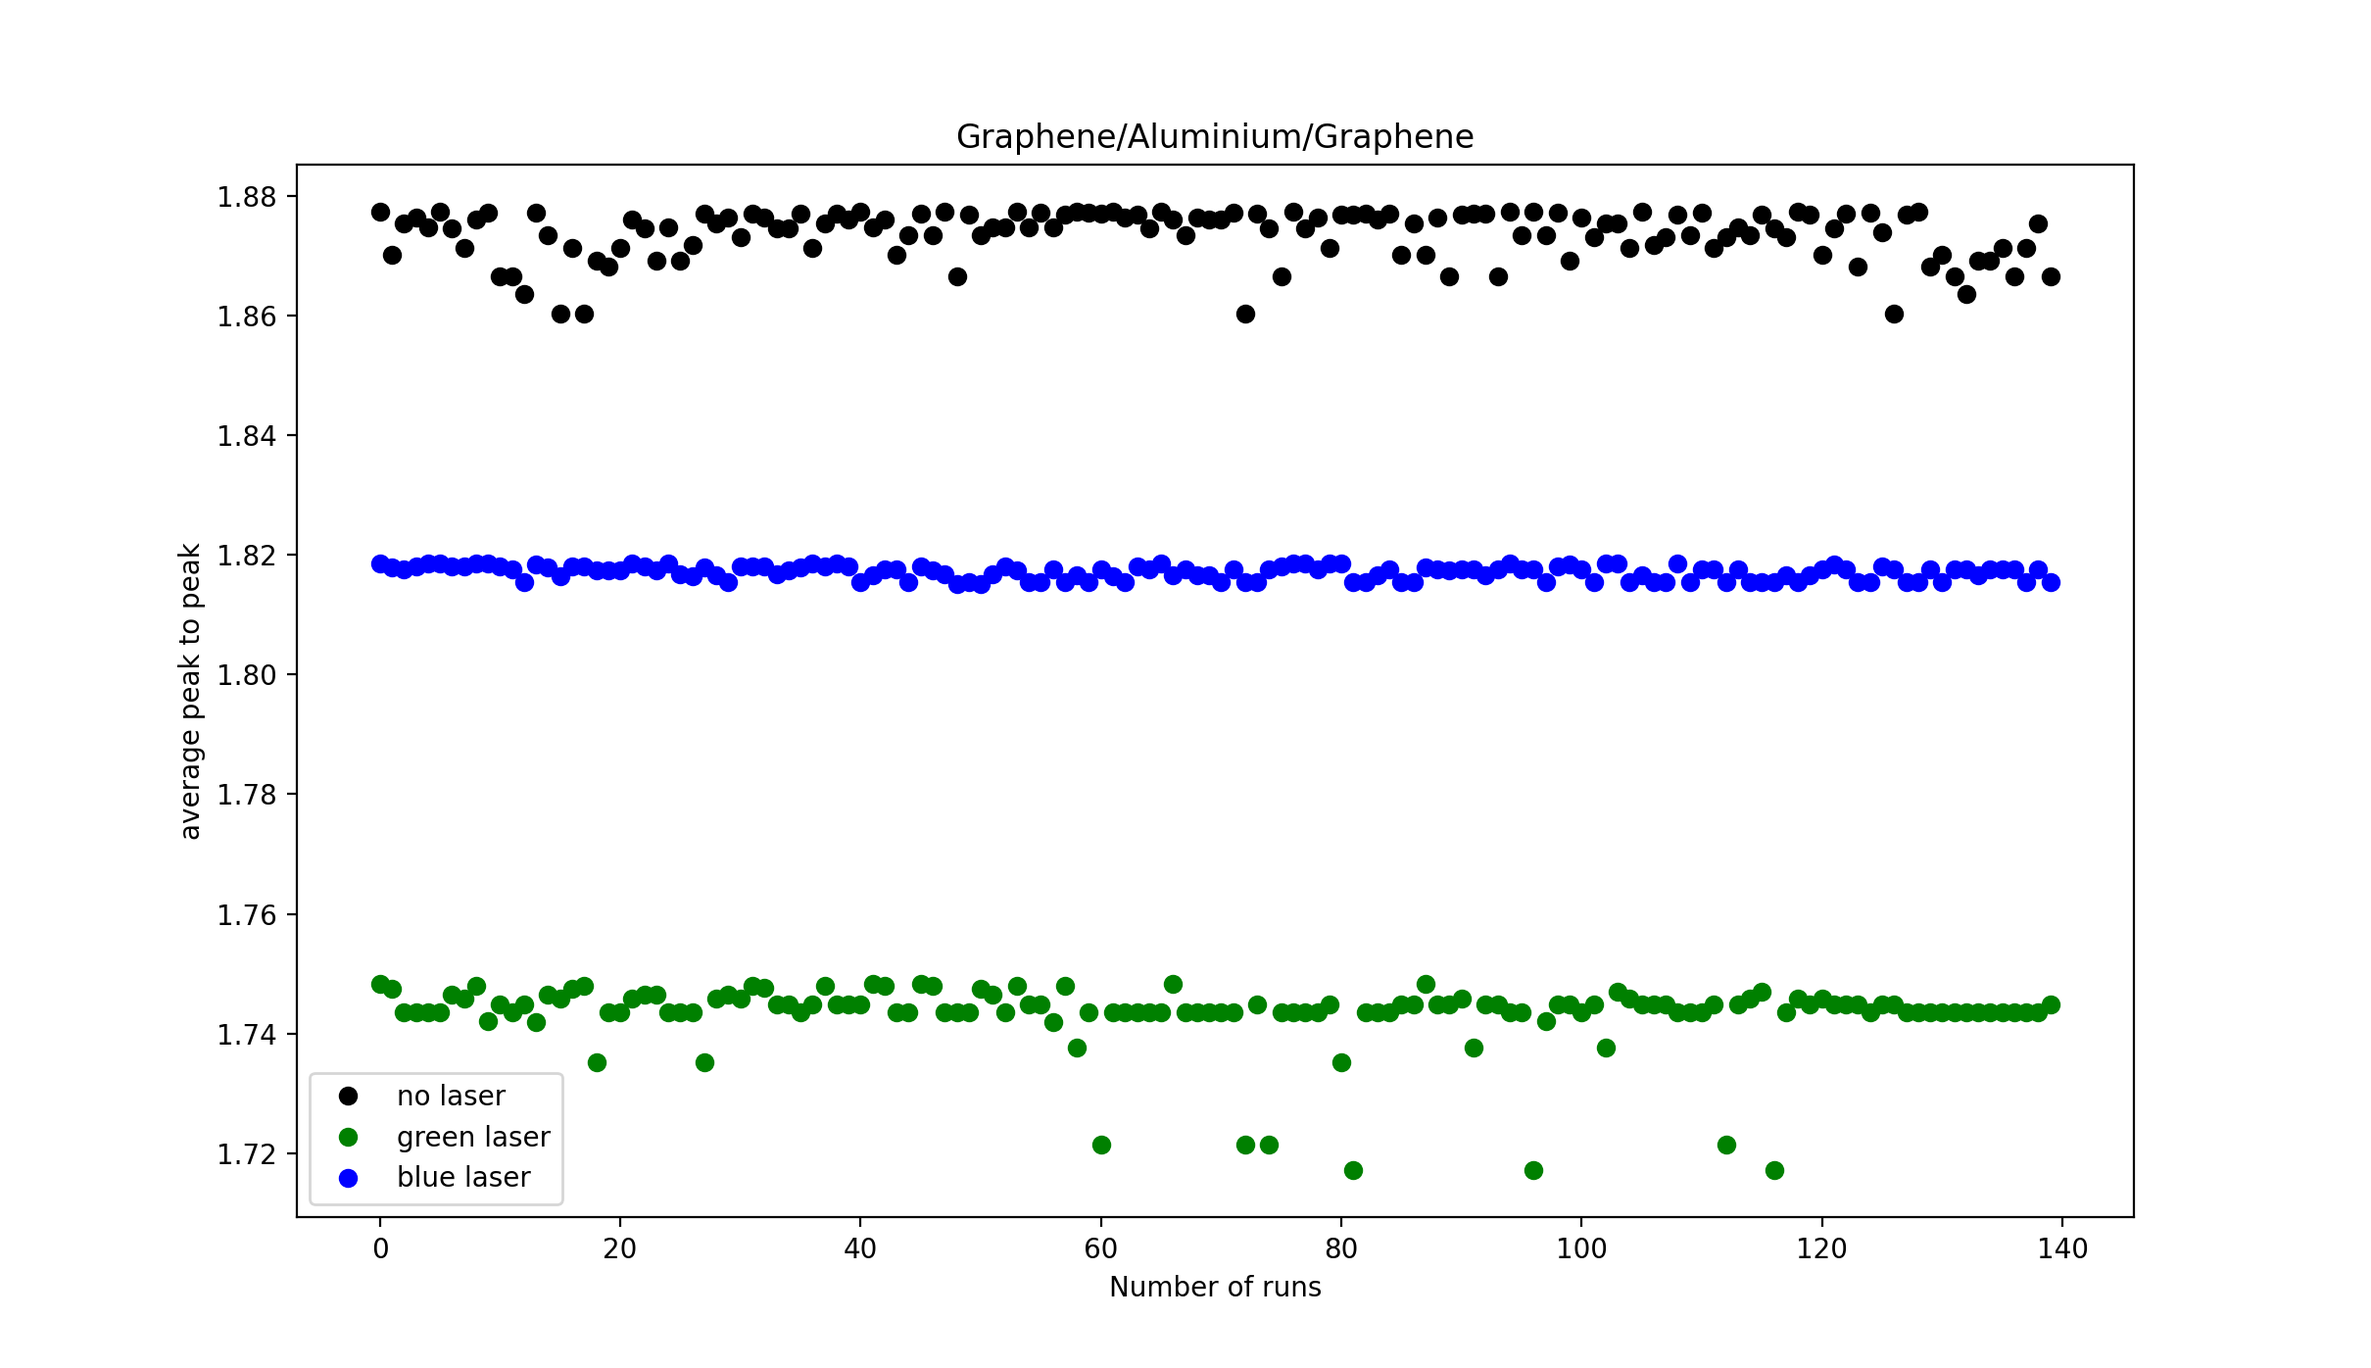
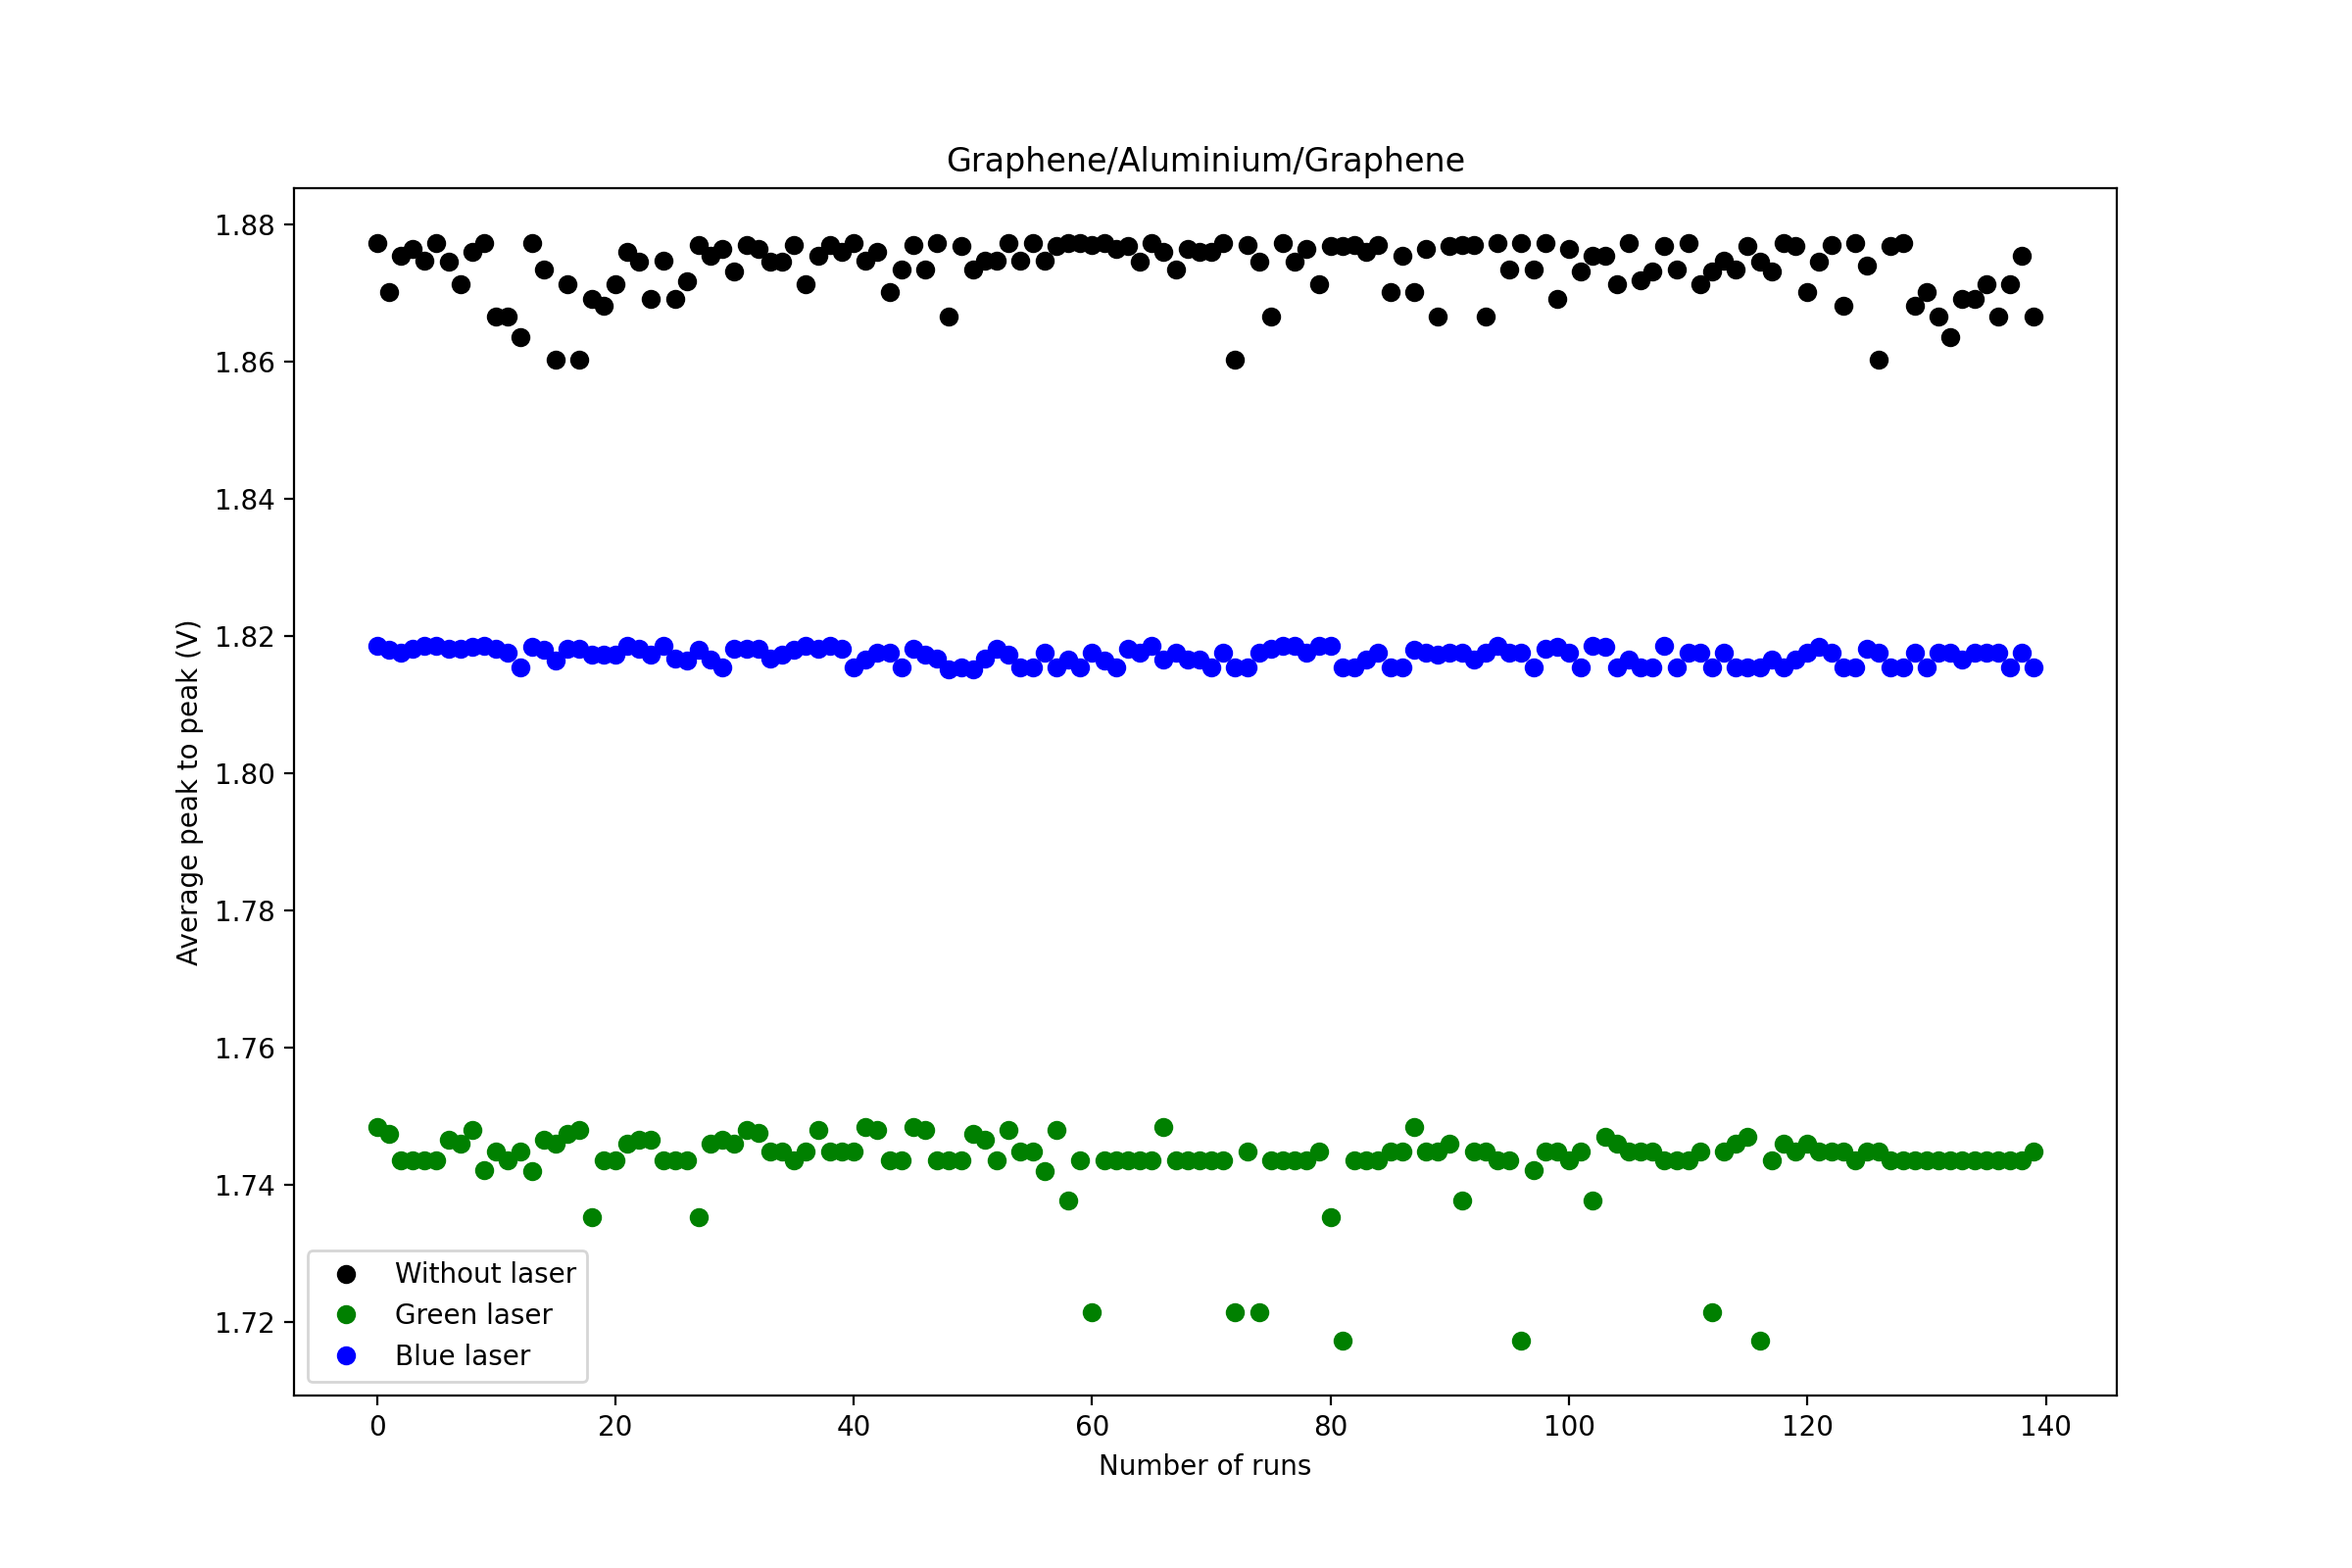
Add files via upload

diff --git a/calc_peak_2_peak.py b/calc_peak_2_peak.py
@@ -1,0 +1,75 @@
+import glob
+import numpy as np
+import matplotlib.pyplot
+from scipy.signal import find_peaks
+import matplotlib.pyplot as plt
+
+no_laser_files = glob.glob('Documents/graphene_hackathon/real_data/train/clean_Al*.csv')
+no_laser_data = np.zeros((300,247))
+
+for i,file in enumerate(no_laser_files):
+	data = np.genfromtxt(file,delimiter=',')
+	no_laser_data[i,::] = data
+
+no_laser_avg_peak_2_peak = np.zeros((300))
+
+for i in range(300):
+	peaks, _ = find_peaks(no_laser_data[i,::], height=0)
+	inv_peaks, _ = find_peaks(-no_laser_data[i,::], height=0)
+	inv_values = -no_laser_data[0,::][inv_peaks]
+	values = no_laser_data[0,::][peaks]
+	peak_2_peak = values + inv_values
+	no_laser_avg_peak_2_peak[i] = np.mean(peak_2_peak)
+
+green_laser_files = glob.glob('Documents/graphene_hackathon/real_data/train/laser_Al*.csv')
+green_laser_data = np.zeros((300,247))
+
+for i,file in enumerate(green_laser_files):
+	data = np.genfromtxt(file,delimiter=',')
+	green_laser_data[i,::] = data
+
+green_laser_avg_peak_2_peak = np.zeros((300))
+
+for i in range(300):
+	peaks, _ = find_peaks(green_laser_data[i,::], height=0)
+	inv_peaks, _ = find_peaks(-green_laser_data[i,::], height=0)
+	inv_values = -green_laser_data[0,::][inv_peaks]
+	values = green_laser_data[0,::][peaks]
+	peak_2_peak = values + inv_values
+	green_laser_avg_peak_2_peak[i] = np.mean(peak_2_peak)
+
+blue_laser_files = glob.glob('Documents/graphene_hackathon/real_data/train/laser_blue_Al*.csv')
+blue_laser_data = np.zeros((300,247))
+
+for i,file in enumerate(blue_laser_files):
+	data = np.genfromtxt(file,delimiter=',')
+	blue_laser_data[i,::] = data
+
+blue_laser_avg_peak_2_peak = np.zeros((300))
+
+for i in range(300):
+	peaks, _ = find_peaks(blue_laser_data[i,::], height=0)
+	inv_peaks, _ = find_peaks(-blue_laser_data[i,::], height=0)
+	inv_values = -blue_laser_data[0,::][inv_peaks]
+	values = blue_laser_data[0,::][peaks]
+	peak_2_peak = values + inv_values
+	blue_laser_avg_peak_2_peak[i] = np.mean(peak_2_peak)
+
+cleaned_no_laser_peak_2_peak = no_laser_avg_peak_2_peak[no_laser_avg_peak_2_peak>np.mean(no_laser_avg_peak_2_peak)]
+cleaned_green_laser_peak_2_peak = green_laser_avg_peak_2_peak[green_laser_avg_peak_2_peak>np.mean(green_laser_avg_peak_2_peak)]
+cleaned_blue_laser_peak_2_peak = blue_laser_avg_peak_2_peak[blue_laser_avg_peak_2_peak>np.mean(blue_laser_avg_peak_2_peak)]
+cleaned_cleaned_no_laser_peak_2_peak = cleaned_no_laser_peak_2_peak[cleaned_no_laser_peak_2_peak>np.mean(cleaned_no_laser_peak_2_peak)]
+
+
+plt.figure(figsize=(12,8))
+plt.plot(np.arange(0,len(cleaned_cleaned_no_laser_peak_2_peak[:140])),cleaned_cleaned_no_laser_peak_2_peak[:140],'ko',label='Without laser')
+plt.plot(np.arange(0,len(cleaned_green_laser_peak_2_peak[:140])),cleaned_green_laser_peak_2_peak[:140],'go',label='Green laser')
+plt.plot(np.arange(0,len(cleaned_blue_laser_peak_2_peak[:140])),cleaned_blue_laser_peak_2_peak[:140],'bo',label='Blue laser')
+plt.xlabel('Number of runs')
+plt.ylabel("Average peak to peak (V)")
+plt.legend()
+plt.title('Graphene/Aluminium/Graphene')
+plt.show()
+
+
+
